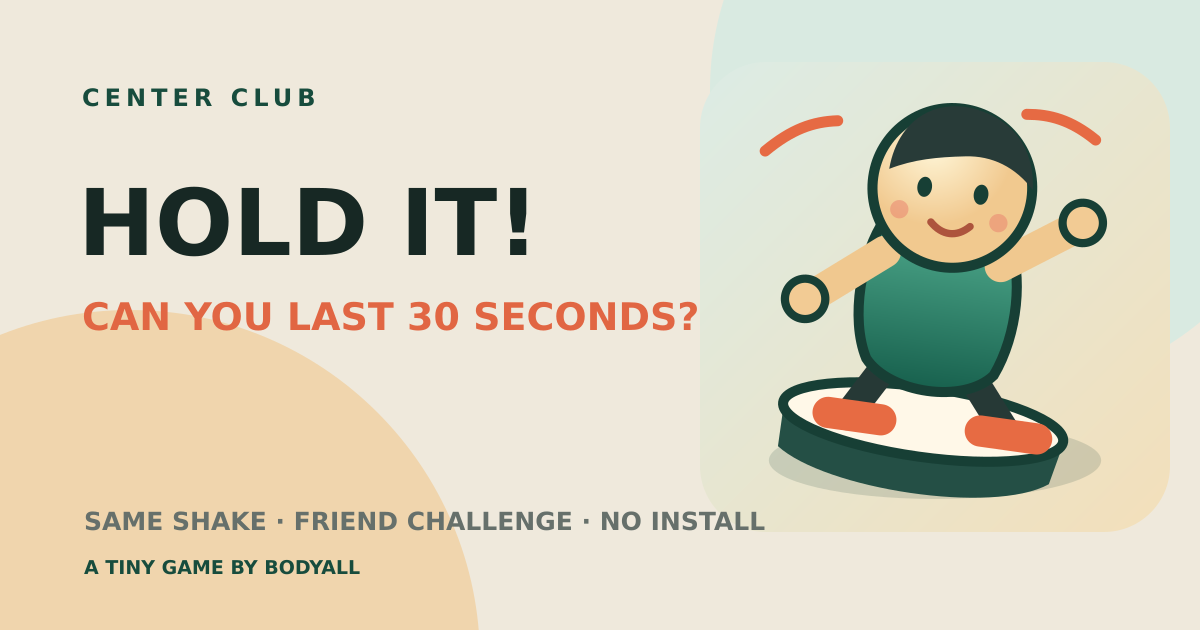
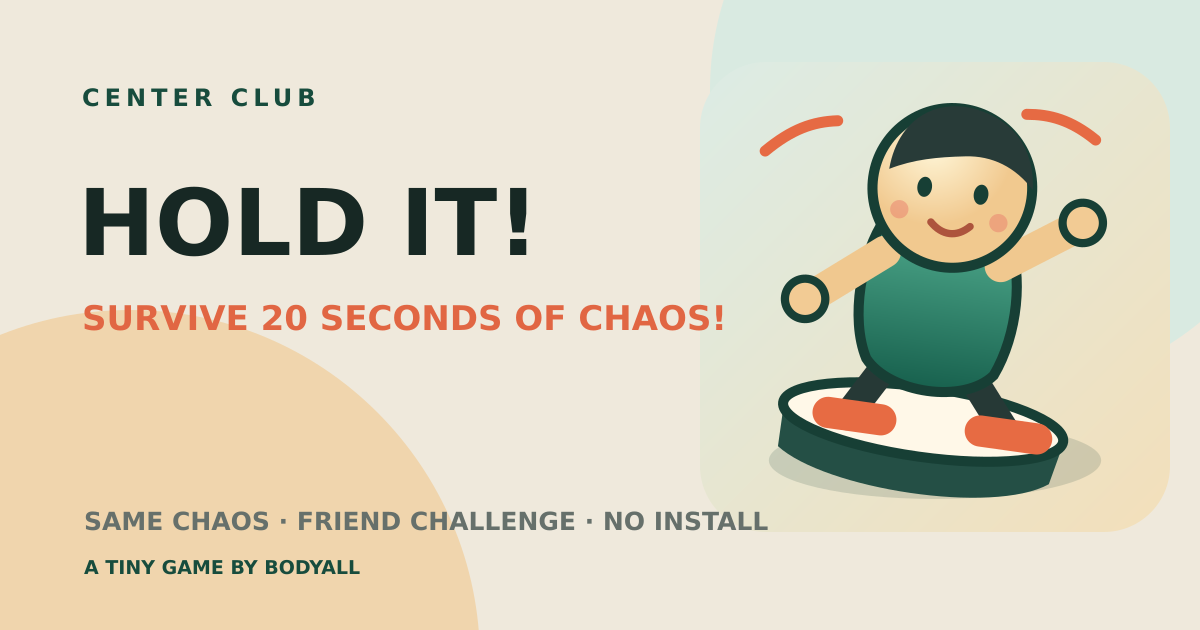
Make Center Balance faster and fun to control
Replace the separate joystick with full-stage drag control and add a 20-second hazard survival loop, combos, impact feedback, and updated sharing assets.

Changed region(s): [[0.0617, 0.4825, 0.6167, 0.5429], [0.1233, 0.8143, 0.6475, 0.8444]]

diff --git a/contents/center-balance/style.css b/contents/center-balance/style.css
@@ -2,4 +2,7 @@
 *{box-sizing:border-box}html{background:#e9e3d6}body{margin:0;color:var(--ink);font-family:-apple-system,BlinkMacSystemFont,"Segoe UI","Noto Sans KR","Apple SD Gothic Neo","Malgun Gothic",sans-serif;line-height:1.55;word-break:keep-all;background:radial-gradient(circle at 15% 8%,#fff9e8 0,transparent 31%),radial-gradient(circle at 90% 26%,#dcebdd 0,transparent 29%),#eee8dc;min-height:100svh}button,a{font:inherit}button{color:inherit}.skip{position:fixed;left:16px;top:-70px;z-index:99;background:#111;color:#fff;padding:12px 18px;border-radius:0 0 9px 9px}.skip:focus{top:0}.page{width:min(100% - 28px,920px);margin:auto;padding:0 0 max(26px,env(safe-area-inset-bottom))}.topbar{height:84px;display:flex;align-items:center;justify-content:space-between}.wordmark{display:flex;align-items:center;gap:10px;color:inherit;text-decoration:none;font-size:12px;font-weight:900;letter-spacing:.12em;line-height:1.2}.wordmark small{display:block;color:#66706b;font-size:9px;letter-spacing:.06em;margin-top:3px}.mark{display:grid;place-items:center;width:38px;height:38px;border-radius:12px;background:var(--green);color:#fff;font-size:20px;font-family:Georgia,serif;box-shadow:inset 0 -4px #0002}.top-actions{display:flex;gap:8px}.icon-button{width:40px;height:40px;border:1px solid #c9c8be;border-radius:50%;background:#fff9;cursor:pointer;font-weight:900}.icon-button:hover,.icon-button:focus-visible{border-color:var(--green);background:#fff}.game-shell{background:var(--paper);border:1px solid #d8d4c8;border-radius:28px;box-shadow:var(--shadow);overflow:hidden}.game-head{display:flex;align-items:flex-end;justify-content:space-between;padding:23px 28px 19px;border-bottom:1px solid var(--line)}.overline{font-size:10px;font-weight:900;letter-spacing:.2em;color:var(--green)}h1{font-size:clamp(32px,6vw,48px);line-height:1;margin:7px 0 0;letter-spacing:-.07em}.best{text-align:right}.best span{display:block;color:var(--muted);font-size:11px}.best strong{font-size:21px;font-variant-numeric:tabular-nums}.best small{font-size:11px;margin-left:3px}.stage{position:relative;height:min(62svh,620px);min-height:470px;overflow:hidden;background:linear-gradient(#dfece7 0 58%,#ecd9bc 58%);touch-action:none}.stage:after{content:"";position:absolute;inset:auto 0 0;height:23%;pointer-events:none;background:repeating-linear-gradient(90deg,#9b795012 0 1px,transparent 1px 42px),linear-gradient(#dec5a1,#ecd9bc)}#scene{display:block;width:100%;height:100%;position:relative;z-index:1}.loading,.start-panel,.countdown{position:absolute;z-index:4;inset:0;display:flex;align-items:center;justify-content:center;flex-direction:column;text-align:center;padding:28px}.loading{background:#e1ede8}.loading strong{margin:15px 0 2px}.loading small{color:var(--muted)}.loader{width:38px;height:38px;border:4px solid #174c3d22;border-top-color:var(--green);border-radius:50%;animation:spin .8s linear infinite}@keyframes spin{to{transform:rotate(360deg)}}.start-panel{justify-content:flex-start;padding-top:33px;pointer-events:none;background:linear-gradient(#dfece7ee 0,transparent 55%)}.start-panel>*{pointer-events:auto}.kicker{margin:0 0 7px;font-size:12px;font-weight:800;color:var(--green)}.start-panel h2{font-size:clamp(30px,7vw,47px);line-height:1.08;margin:0;letter-spacing:-.065em}.start-panel h2 em{font-style:normal;color:var(--orange)}.rule{max-width:420px;margin:13px 0 14px;color:#43514b;font-size:14px}.challenge-banner{background:#fff;border:1px solid #b6cabf;border-radius:12px;padding:10px 14px;margin:0 0 10px;font-size:13px}.challenge-banner strong{color:var(--orange)}.primary,.secondary{border:0;border-radius:13px;min-height:51px;padding:0 22px;font-weight:900;cursor:pointer;display:flex;align-items:center;justify-content:center;gap:24px}.primary{background:var(--green);color:#fff;box-shadow:inset 0 -4px #0a2d24,0 8px 18px #174c3d26}.primary:hover{background:#1d5b49}.primary:active{transform:translateY(2px);box-shadow:inset 0 -2px #0a2d24}.primary:disabled{opacity:.48;cursor:wait}.start-panel .primary{width:min(100%,330px);font-size:17px}.start-panel>small{margin-top:10px;color:var(--muted)}.hud{position:absolute;z-index:3;left:18px;right:18px;top:15px;display:grid;grid-template-columns:auto 1fr auto;align-items:center;gap:12px}.timer,.target{background:#fffdf1e8;border:1px solid #ffffffb0;border-radius:13px;padding:8px 12px;box-shadow:0 5px 15px #18352a18}.timer span,.target span{display:block;font-size:9px;font-weight:800;color:var(--muted)}.timer strong{font-size:24px;font-variant-numeric:tabular-nums}.timer small{font-size:10px;color:var(--muted)}.target{text-align:right}.target strong{font-size:15px}.danger{height:9px;border:2px solid #fff;border-radius:10px;background:#203b3325;overflow:hidden}.danger span{display:block;height:100%;width:0;background:linear-gradient(90deg,#45a57f,#f1b24d,#e8523b);border-radius:8px;transition:width .08s}.countdown{background:#143d35a8;color:#fff;backdrop-filter:blur(4px)}.countdown span{font-weight:800}.countdown strong{font-size:100px;line-height:1;font-variant-numeric:tabular-nums}.toast{position:absolute;z-index:5;left:50%;bottom:20px;transform:translate(-50%,18px);opacity:0;background:#142b26e8;color:#fff;padding:9px 14px;border-radius:100px;font-size:12px;font-weight:750;transition:.2s;white-space:nowrap}.toast.show{opacity:1;transform:translate(-50%,0)}.pause{position:absolute;z-index:4;right:16px;bottom:17px;width:40px;height:40px;border:0;border-radius:50%;background:#fff9;box-shadow:0 3px 10px #0002;font-weight:900;cursor:pointer}.control-card{display:grid;grid-template-columns:1fr 240px 1fr;align-items:center;gap:22px;padding:20px 28px 24px;border-top:1px solid var(--line);background:#fff}.control-copy b{display:block;font-size:14px}.control-copy span{display:block;color:var(--muted);font-size:12px;margin-top:3px}.control-card>p{text-align:right;color:var(--muted);font-size:11px;margin:0}.control-pad{height:124px;position:relative;border:1px solid #cbd4cf;border-radius:50%;background:radial-gradient(circle,#fff 0 8%,transparent 9%),#edf3ef;touch-action:none;box-shadow:inset 0 3px 12px #16372d13}.axis{position:absolute;background:#afc1b8}.axis.horizontal{left:12px;right:12px;top:50%;height:1px}.axis.vertical{top:12px;bottom:12px;left:50%;width:1px}.direction{position:absolute;font-size:9px;color:#728078}.direction.up{top:6px;left:50%;transform:translateX(-50%)}.direction.down{bottom:6px;left:50%;transform:translateX(-50%)}.direction.left{left:9px;top:50%;transform:translateY(-50%)}.direction.right{right:9px;top:50%;transform:translateY(-50%)}.control-knob{position:absolute;left:50%;top:50%;width:52px;height:52px;border:4px solid #fff;border-radius:50%;background:radial-gradient(circle at 35% 28%,#77b8ff,#3478d2 62%,#1e58aa);box-shadow:0 5px 13px #123d7470;transform:translate(-50%,-50%);cursor:grab;touch-action:none}.control-knob:active{cursor:grabbing}.today-card{margin:18px 0;background:#173f35;color:#fff;border-radius:22px;padding:25px 28px}.today-card .overline{color:#a8d9bf}.today-card h2{font-size:23px;margin:6px 0 7px;letter-spacing:-.04em}.today-card>p{margin:0;color:#d0ded8;font-size:14px}.mini-stats{display:grid;grid-template-columns:repeat(3,1fr);gap:1px;margin-top:20px;background:#ffffff24;border-radius:14px;overflow:hidden}.mini-stats span{background:#1c4b3f;padding:12px;text-align:center;font-size:10px;color:#bad0c7}.mini-stats b{display:block;color:#fff;font-size:22px}footer{display:flex;justify-content:space-between;padding:23px 5px 0;color:#68716d;font-size:12px}footer a{color:inherit;font-weight:800}.modal{border:0;padding:0;background:transparent;max-width:min(92vw,480px);width:100%;overflow:visible}.modal::backdrop{background:#10241fcc;backdrop-filter:blur(5px)}.modal-card{position:relative;background:var(--paper);border-radius:24px;padding:30px;box-shadow:0 25px 70px #0006}.modal-close{position:absolute;right:16px;top:15px;width:38px;height:38px;border:0;border-radius:50%;background:#eeeae0;font-size:22px;cursor:pointer}.result-label{font-size:10px;font-weight:900;letter-spacing:.16em;color:var(--green)}.modal h2{font-size:25px;line-height:1.25;margin:8px 0 10px;letter-spacing:-.045em}.record{display:flex;align-items:flex-end;color:var(--orange);margin:5px 0}.record strong{font-size:68px;line-height:1;font-variant-numeric:tabular-nums;letter-spacing:-.07em}.record span{font-size:18px;font-weight:900;margin:0 0 7px 5px}.modal-card>p{color:var(--muted);font-size:14px}.result-badges{display:flex;gap:6px;flex-wrap:wrap;margin:13px 0}.result-badges span{background:#e6efe9;border-radius:99px;padding:5px 9px;font-size:11px;font-weight:800;color:var(--green)}.result-actions{display:grid;gap:8px;margin-top:18px}.secondary{background:#e4eee9;color:var(--green)}.text-action{border:0;background:none;min-height:38px;color:var(--muted);font-weight:750;cursor:pointer}.share-status{text-align:center;min-height:1.4em;margin:5px 0!important}.maker-note{margin:18px -30px -30px;padding:19px 30px 22px;background:#173f35;color:#fff;border-radius:0 0 24px 24px}.maker-note p{font-size:12px;color:#cfe0d9;margin:5px 0 11px}.maker-note a{color:#fff;font-size:12px;font-weight:850}.info-modal ol{padding-left:20px;font-size:14px}.info-modal li+li{margin-top:8px}.fine-print{font-size:11px!important;border-top:1px solid var(--line);padding-top:14px}.compact-modal{text-align:center}.compact-modal .primary{width:100%;margin-top:18px}.modal[open]{animation:pop .2s ease-out}@keyframes pop{from{opacity:0;transform:translateY(10px) scale(.97)}}[hidden]{display:none!important}:focus-visible{outline:3px solid #efa937;outline-offset:3px}
 @media(max-width:650px){.page{width:100%;padding-bottom:0}.topbar{height:68px;padding:0 15px}.game-shell{border-radius:0;border-left:0;border-right:0}.game-head{padding:16px 18px 14px}.stage{height:55svh;min-height:430px}.start-panel{padding:24px 20px}.rule{max-width:330px}.control-card{grid-template-columns:1fr 170px;padding:15px 17px 18px;gap:12px}.control-card>p{display:none}.control-pad{height:105px}.control-knob{width:48px;height:48px}.today-card{margin:14px;border-radius:18px;padding:21px 19px}footer{padding:17px 18px 22px}.record strong{font-size:60px}.modal-card{padding:26px 22px}.maker-note{margin:18px -22px -26px;padding:18px 22px 21px}.hud{left:10px;right:10px;top:10px}.timer,.target{padding:6px 9px}.timer strong{font-size:20px}}
 @media(max-width:380px){.stage{min-height:405px}.start-panel h2{font-size:31px}.control-card{grid-template-columns:1fr 145px}.control-pad{height:94px}.hud{grid-template-columns:auto 1fr}.target{position:absolute;right:0;top:54px}.mini-stats b{font-size:19px}.mini-stats span{padding:10px 5px}}
+.stage{height:min(70svh,680px);min-height:520px;user-select:none}.stage #scene{cursor:grab}.hud{pointer-events:none}.timer,.target,.live-score{background:#fffdf1e8;border:1px solid #ffffffb0;border-radius:13px;padding:8px 12px;box-shadow:0 5px 15px #18352a18}.live-score{position:absolute;right:0;top:58px;text-align:right}.live-score span{display:block;font-size:9px;font-weight:800;color:var(--muted)}.live-score strong{font-size:18px;font-variant-numeric:tabular-nums}.live-score b{display:block;color:var(--orange);font-size:10px}.touch-guide{position:absolute;z-index:3;left:50%;bottom:24px;transform:translateX(-50%);display:flex;align-items:center;gap:9px;color:#fff;background:#173f35d9;padding:8px 13px;border-radius:99px;font-size:11px;pointer-events:none;animation:breathe 1.2s ease-in-out infinite}.touch-guide span{width:20px;height:20px;border:2px solid #fff;border-radius:50%;box-shadow:0 0 0 6px #ffffff28}.touch-origin{position:absolute;z-index:6;width:76px;height:76px;margin:-38px 0 0 -38px;border:2px solid #ffffff9c;background:#173f3538;border-radius:50%;pointer-events:none}.touch-origin i{position:absolute;width:28px;height:28px;left:22px;top:22px;border-radius:50%;background:#fff;box-shadow:0 3px 13px #163b35aa;transition:transform .03s linear}.impact-flash{position:absolute;z-index:2;inset:0;pointer-events:none;border:0 solid #fff}.impact-flash.flash{animation:impactFlash .24s ease-out}.stage.hit{animation:stageHit .22s ease-out}.toast{z-index:7;bottom:76px}@keyframes breathe{50%{transform:translateX(-50%) scale(1.04)}}@keyframes impactFlash{0%{background:#fff9;border-width:18px}100%{background:transparent;border-width:0}}@keyframes stageHit{20%{transform:translateX(-7px) rotate(-.25deg)}55%{transform:translateX(6px) rotate(.2deg)}100%{transform:none}}
+@media(max-width:650px){.stage{height:68svh;min-height:500px}.game-head{padding-bottom:12px}}
+@media(max-width:380px){.stage{min-height:465px}}
 @media(prefers-reduced-motion:reduce){*,*:before,*:after{scroll-behavior:auto!important;animation:none!important;transition:none!important}}

diff --git a/contents/center-balance/index.html b/contents/center-balance/index.html
@@ -4,13 +4,13 @@
   <meta charset="utf-8">
   <meta name="viewport" content="width=device-width,initial-scale=1,viewport-fit=cover,user-scalable=no">
   <meta name="theme-color" content="#efe9dc">
-  <title>중심잡아! — 30초 밸런스 챌린지</title>
-  <meta name="description" content="흔들리는 발판 위에서 30초를 버텨보세요. 친구의 기록에 같은 패턴으로 도전하는 설치 없는 3D 밸런스 게임입니다.">
+  <title>중심잡아! — 20초 물리 생존 챌린지</title>
+  <meta name="description" content="화면을 직접 끌어 귀여운 캐릭터를 붙잡고 20초를 버텨보세요. 같은 장애물에 친구와 도전하는 설치 없는 3D 물리게임입니다.">
   <link rel="canonical" href="https://wiki.body-all.co.kr/contents/center-balance/">
   <meta property="og:type" content="website">
   <meta property="og:locale" content="ko_KR">
-  <meta property="og:title" content="중심잡아! — 30초만 버틸 수 있을까?">
-  <meta property="og:description" content="내 기록을 넘겨봐. 같은 흔들림, 같은 30초, 결과는 실력 차이.">
+  <meta property="og:title" content="중심잡아! — 20초만 버틸 수 있을까?">
+  <meta property="og:description" content="공, 바람, 발판 충격까지. 같은 난장판에서 내 기록을 넘겨봐.">
   <meta property="og:url" content="https://wiki.body-all.co.kr/contents/center-balance/">
   <meta property="og:image" content="https://wiki.body-all.co.kr/contents/center-balance/assets/share-card.png">
   <meta name="twitter:card" content="summary_large_image">
@@ -39,40 +39,35 @@
         <div class="loading" id="loading"><span class="loader"></span><strong>캐릭터 준비 중</strong><small>3D 물리엔진을 불러오고 있어요.</small></div>
 
         <div class="hud" id="hud" hidden>
-          <div class="timer"><span>버틴 시간</span><strong id="timer">0.00</strong><small>/ 30초</small></div>
+          <div class="timer"><span>버틴 시간</span><strong id="timer">0.00</strong><small>/ 20초</small></div>
           <div class="danger" aria-label="흔들림 위험도"><span id="danger-fill"></span></div>
           <div class="target" id="target" hidden><span>친구 기록</span><strong id="target-time">0.00초</strong></div>
+          <div class="live-score"><span>SCORE</span><strong id="score">0</strong><b id="combo" hidden>COMBO ×1</b></div>
         </div>
 
         <div class="start-panel" id="start-panel">
-          <p class="kicker">귀여워 보여도 쉽지는 않습니다.</p>
-          <h2>딱 30초,<br><em>중심을 지켜보세요.</em></h2>
-          <p class="rule">파란 손잡이를 <b>캐릭터가 기울어지는 쪽</b>으로 움직여 발판을 받쳐주세요.</p>
+          <p class="kicker">공도 날아오고, 바람도 붑니다.</p>
+          <h2>딱 20초,<br><em>어떻게든 붙잡으세요.</em></h2>
+          <p class="rule">게임 화면을 누른 채 <b>기울어지는 방향으로 끌어서</b> 캐릭터를 붙잡으세요.</p>
           <p class="challenge-banner" id="challenge-banner" hidden><b id="challenger-name">친구</b>의 <strong id="challenge-time">0.00초</strong>에 도전합니다.</p>
           <button class="primary" id="start" type="button" disabled><span id="start-copy">준비 중…</span><b aria-hidden="true">→</b></button>
-          <small>설치 없음 · 회원가입 없음 · 한 판 30초</small>
+          <small>설치 없음 · 회원가입 없음 · 한 판 20초</small>
         </div>
 
         <div class="countdown" id="countdown" hidden><span>중심을 잡으세요</span><strong id="count">3</strong></div>
+        <div class="touch-guide" id="touch-guide" hidden><span></span><b>화면 어디든 누르고 끌기</b></div>
+        <div class="touch-origin" id="touch-origin" hidden><i id="touch-dot"></i></div>
+        <div class="impact-flash" id="impact-flash"></div>
         <div class="toast" id="toast" role="status" aria-live="polite"></div>
         <button class="pause" id="pause" type="button" hidden aria-label="일시정지">Ⅱ</button>
       </div>
 
-      <section class="control-card" id="control-card" aria-label="무게중심 조작판">
-        <div class="control-copy"><b>무게중심</b><span id="control-hint">손잡이를 움직여 연습해보세요.</span></div>
-        <div class="control-pad" id="control-pad" role="application" aria-label="캐릭터 무게중심 조작. 가운데 손잡이를 드래그하세요.">
-          <span class="axis horizontal"></span><span class="axis vertical"></span>
-          <span class="direction up">앞</span><span class="direction down">뒤</span><span class="direction left">왼쪽</span><span class="direction right">오른쪽</span>
-          <button class="control-knob" id="control-knob" type="button" aria-label="무게중심 손잡이"></button>
-        </div>
-        <p>PC에서는 방향키·WASD도 사용할 수 있습니다.</p>
-      </section>
     </section>
 
     <section class="today-card">
       <span class="overline">TODAY'S RULE</span>
       <h2 id="daily-title">오늘의 흔들림은 모두 같습니다.</h2>
-      <p>친구에게 도전장을 보내면 같은 패턴으로 겨룹니다. 최고 기록보다 가까운 사람 한 명을 이기는 게 먼저입니다.</p>
+      <p>공, 돌풍, 발판 충격의 순서까지 모두 같습니다. 친구의 반투명 고스트보다 0.01초만 더 버텨보세요.</p>
       <div class="mini-stats"><span><b id="plays">0</b>오늘 내 도전</span><span><b id="wins">0</b>친구 기록 격파</span><span><b id="close-calls">0</b>기적의 회복</span></div>
     </section>
 
@@ -108,8 +103,8 @@
   <dialog id="info-dialog" class="modal info-modal">
     <div class="modal-card">
       <button class="modal-close" data-close aria-label="닫기">×</button>
-      <span class="result-label">HOW TO PLAY</span><h2>기울어지는 쪽으로 받치기!</h2>
-      <ol><li>파란 손잡이를 캐릭터가 기울어지는 쪽으로 움직여 발판을 받칩니다.</li><li>급정거와 옆바람을 버티며 30초를 채웁니다.</li><li>결과에서 친구에게 같은 패턴의 도전장을 보냅니다.</li></ol>
+      <span class="result-label">HOW TO PLAY</span><h2>화면에서 캐릭터를 붙잡으세요!</h2>
+      <ol><li>게임 화면 어디든 누른 채 기울어지는 방향으로 끕니다.</li><li>공·돌풍·발판 충격을 피하며 20초를 채웁니다.</li><li>위험 구간에서 되살아나면 회복 콤보와 보너스 점수를 얻습니다.</li></ol>
       <p class="fine-print">게임 기록은 건강 상태, 균형 능력, 자세 또는 치료 필요성을 측정하지 않습니다. 공개 순위표와 위치 정보는 사용하지 않습니다.</p>
     </div>
   </dialog>

diff --git a/contents/index.html b/contents/index.html
@@ -5,7 +5,7 @@
   <meta name="viewport" content="width=device-width, initial-scale=1">
   <meta name="theme-color" content="#17483b">
   <title>바디올 엔터테인먼트 — 잠깐, 한 판 어때요?</title>
-  <meta name="description" content="30초 중심잡기, 삼국지 전생 테스트, 60초 칼퇴 챌린지까지. 바디올의 게임과 테스트를 설치 없이 즐겨보세요.">
+  <meta name="description" content="20초 물리 생존게임, 삼국지 전생 테스트, 60초 칼퇴 챌린지까지. 바디올의 게임과 테스트를 설치 없이 즐겨보세요.">
   <link rel="canonical" href="https://wiki.body-all.co.kr/contents/">
   <link rel="icon" href="bodyall-clinic/assets/huata-symbol.webp" type="image/webp">
   <meta property="og:type" content="website">
@@ -42,10 +42,10 @@
           <a class="card" href="center-balance/" aria-labelledby="balance-title" aria-describedby="balance-description">
             <div class="thumb balance" aria-hidden="true"><img src="center-balance/assets/mascot.svg" alt="" width="512" height="512"></div>
             <div class="copy">
-              <div class="meta"><span class="tag">3D 물리게임</span><span>한 판 30초 · 친구 대결</span></div>
-              <h2 id="balance-title">딱 30초,<br>중심을 지킬 수 있을까?</h2>
-              <p class="description" id="balance-description"><strong>중심잡아!</strong><br>흔들리는 발판과 갑작스러운 급정거. 친구와 똑같은 패턴에서 기록을 겨뤄보세요.</p>
-              <span class="play">30초 중심잡기 도전 <span aria-hidden="true">→</span></span>
+              <div class="meta"><span class="tag">3D 물리게임</span><span>한 판 20초 · 친구 대결</span></div>
+              <h2 id="balance-title">딱 20초,<br>난장판에서 살아남아라!</h2>
+              <p class="description" id="balance-description"><strong>중심잡아!</strong><br>화면에서 캐릭터를 붙잡고 공·돌풍·발판 충격을 버텨보세요.</p>
+              <span class="play">20초 생존 도전 <span aria-hidden="true">→</span></span>
             </div>
           </a>
         </li>

diff --git a/contents/center-balance/README.md b/contents/center-balance/README.md
@@ -13,7 +13,8 @@
 
 ## 플레이와 경쟁
 
-- 파란 조작 손잡이를 캐릭터가 기울어지는 방향으로 움직여 발판을 받치며 30초를 버팁니다.
+- 화면 어디든 누른 채 끌어 캐릭터를 직접 붙잡고, 공·돌풍·발판 충격을 20초 동안 버팁니다.
+- 위험 구간에서 복귀하면 회복 콤보와 보너스 점수를 얻습니다.
 - 오늘의 기본 패턴은 한국 날짜를 기준으로 모든 이용자에게 같습니다.
 - 결과의 도전장은 패턴 시드, 기록, 압축된 조작 리플레이를 URL에 담습니다. 개인정보·건강정보·위치정보를 넣지 않습니다.
 - 친구 링크로 접속하면 같은 흔들림과 목표 기록이 표시됩니다.
